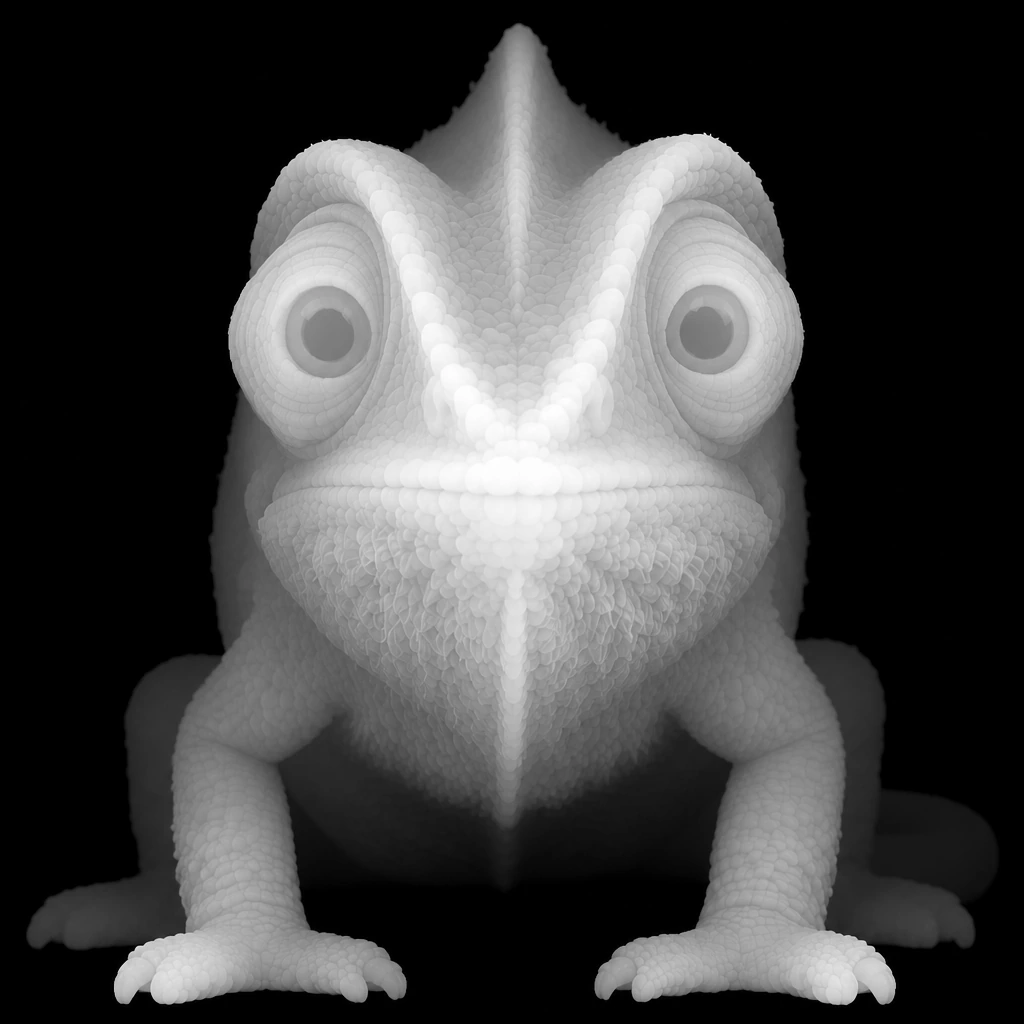
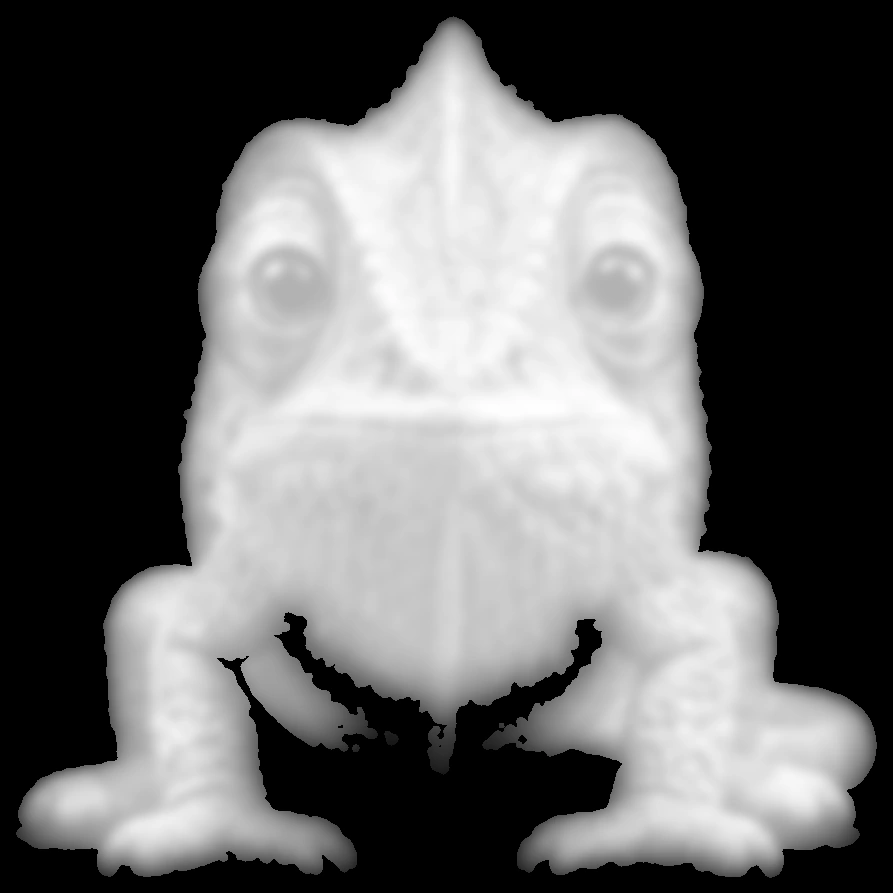
Smooth the 3D chameleon relief and drop the spike artifacts
Use a silhouette depth map, fewer segments, and the original photo
so the figure stays solid while still turning in 3D.

diff --git a/src/skinMaterial.js b/src/skinMaterial.js
@@ -116,10 +116,6 @@ export function createSkinMaterial(albedo, bump, uniforms) {
     shader.fragmentShader = shader.fragmentShader.replace(
       "#include <color_fragment>",
       `#include <color_fragment>
-       float facing = smoothstep(0.05, 0.72, dot(normalize(vWorldN), vec3(0.0, 0.12, 1.0)));
-       vec3 proc = mix(vec3(0.22, 0.48, 0.42), vec3(0.55, 0.72, 0.48), facing);
-       diffuseColor.rgb = mix(proc, diffuseColor.rgb, facing);
-
        float t = mix(-0.12, 1.12, uProgress);
        float reveal = 1.0 - smoothstep(t - 0.11, t + 0.11, vAlong);
        vec3 fromCol = tintSkin(diffuseColor.rgb, uFrom, uFromAmt);
@@ -130,6 +126,6 @@ export function createSkinMaterial(albedo, bump, uniforms) {
     );
   };
 
-  material.customProgramCacheKey = () => "chameleon-skin-v2";
+  material.customProgramCacheKey = () => "chameleon-skin-v3";
   return material;
 }

diff --git a/src/buildChameleon.js b/src/buildChameleon.js
@@ -119,11 +119,11 @@ function stitchRim(front, back, solid) {
 
 export function buildChameleon(material, colorImage, depthImage) {
   const size = 512;
-  const segs = 140;
+  const segs = 72;
   const width = 1.72;
   const maps = readMaps(colorImage, depthImage, size);
-  const front = buildShell(maps.color, maps.depth, size, segs, width, 0.62, 0, false);
-  const back = buildShell(maps.color, maps.depth, size, segs, width, 0.62, -0.22, true);
+  const front = buildShell(maps.color, maps.depth, size, segs, width, 0.34, 0, false);
+  const back = buildShell(maps.color, maps.depth, size, segs, width, 0.34, -0.16, true);
   const rim = stitchRim(front.geo, back.geo, front.solid);
 
   const group = new THREE.Group();
